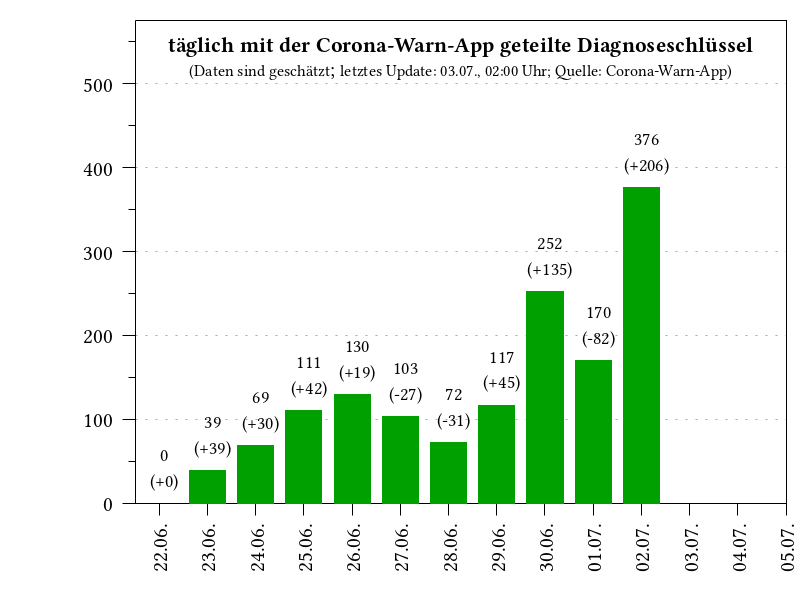
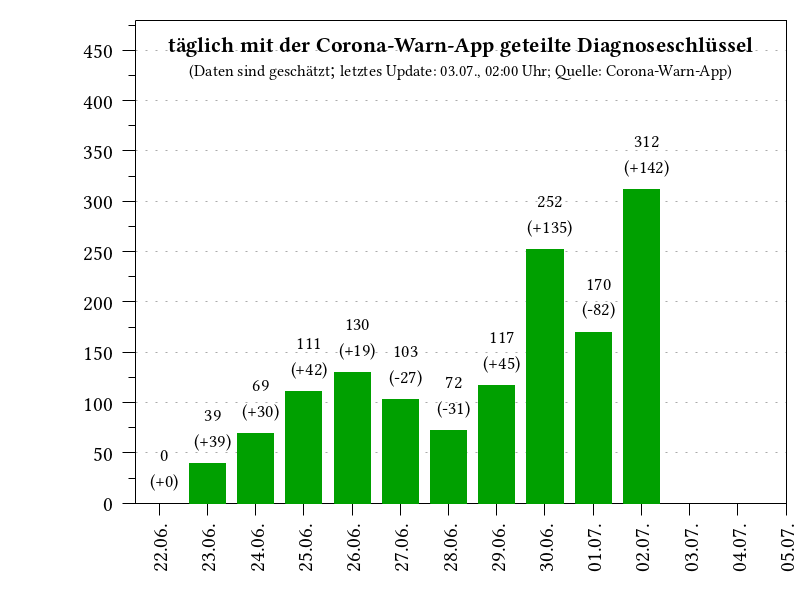
manually corrected user and submitted key count for 2020-07-02 (#5)
Due to a padding multiplier change from 10 to 5 yesterday, the reported numbers of the daily package were incorrect. These values have been manually corrected by an analyse of the hourly packages.

diff --git a/scripts/CWA_TEKs_download_and_process.py b/scripts/CWA_TEKs_download_and_process.py
@@ -154,6 +154,20 @@ if __name__ == "__main__":
     # add an empty entry as origin (2020-06-22)
     date_list.append([1592784000, 0, 0, 0, 0, 0, 0])
     
+    ###########################################################
+    # manual data fix for 2020-07-02, 
+    # due to multiplier change (10 -> 5) during the day
+    #
+    # analysis of hourly packages:
+    # users: 35 instead of 37 (2 with an invalid transmission risk profile)
+    # submitted keys: 312 instead of 376
+    #
+    for entry in date_list:
+        if ( entry[0] == 1593648000 ): # 2020-07-20            
+            entry[2] = 35  # 35 users instead of 37
+            entry[3] = 312 # 376 submitted keys instead of 312
+    ###########################################################
+    
     # sort list by timestamp
     sorted_data_list = sorted(date_list, key=lambda t: t[0])
          
